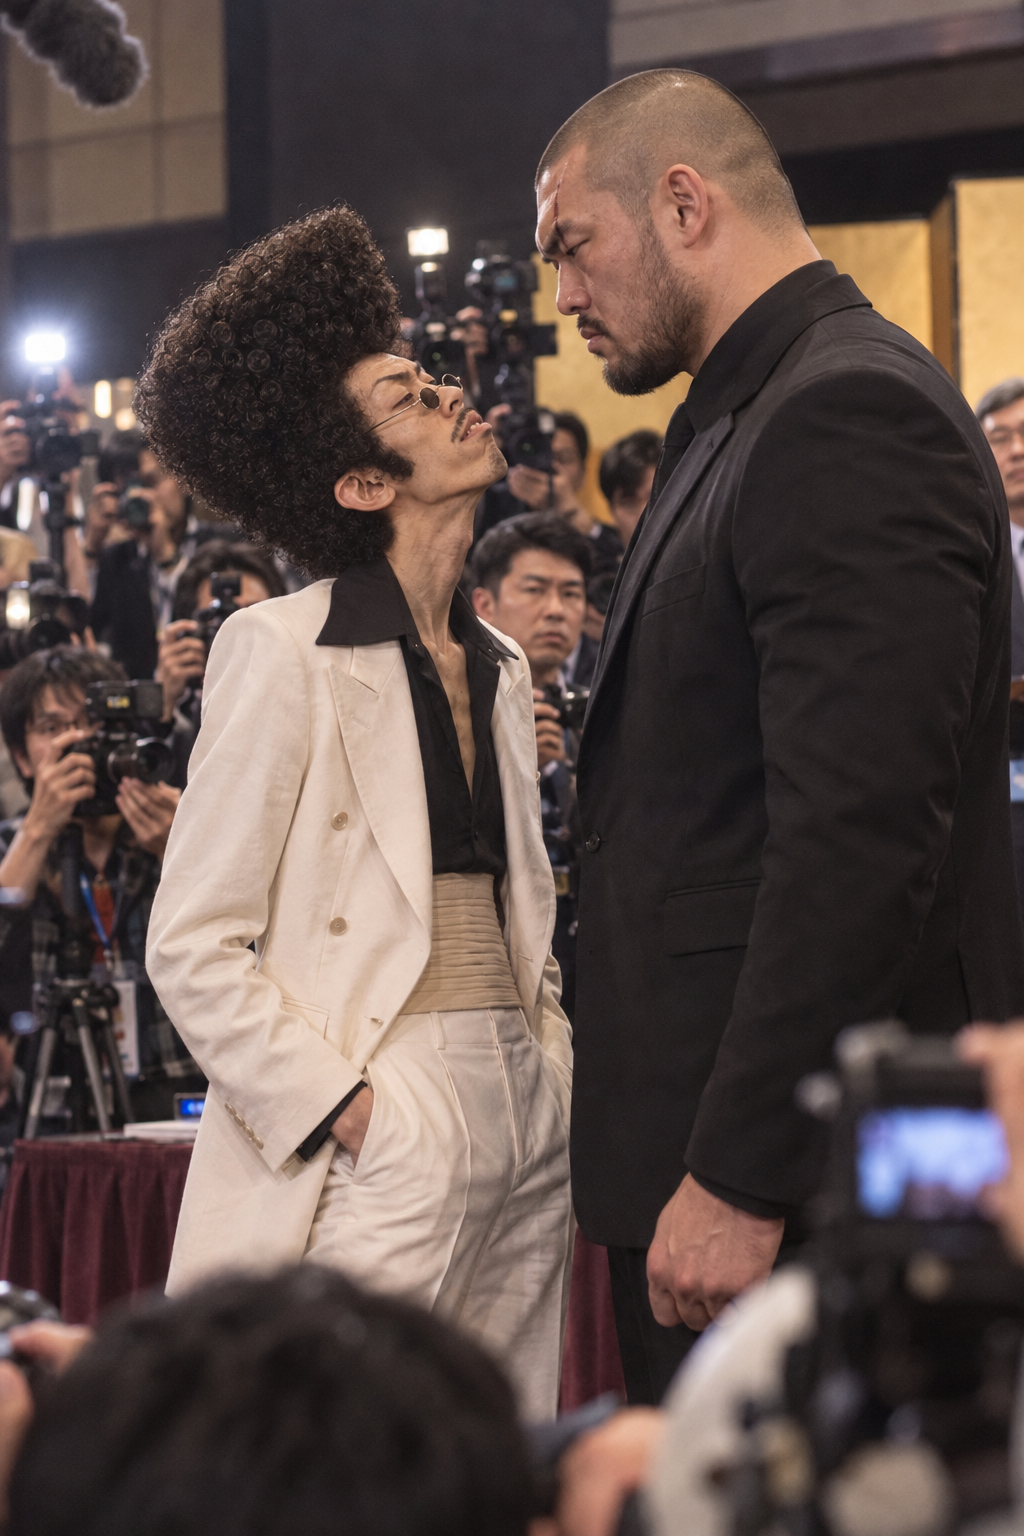
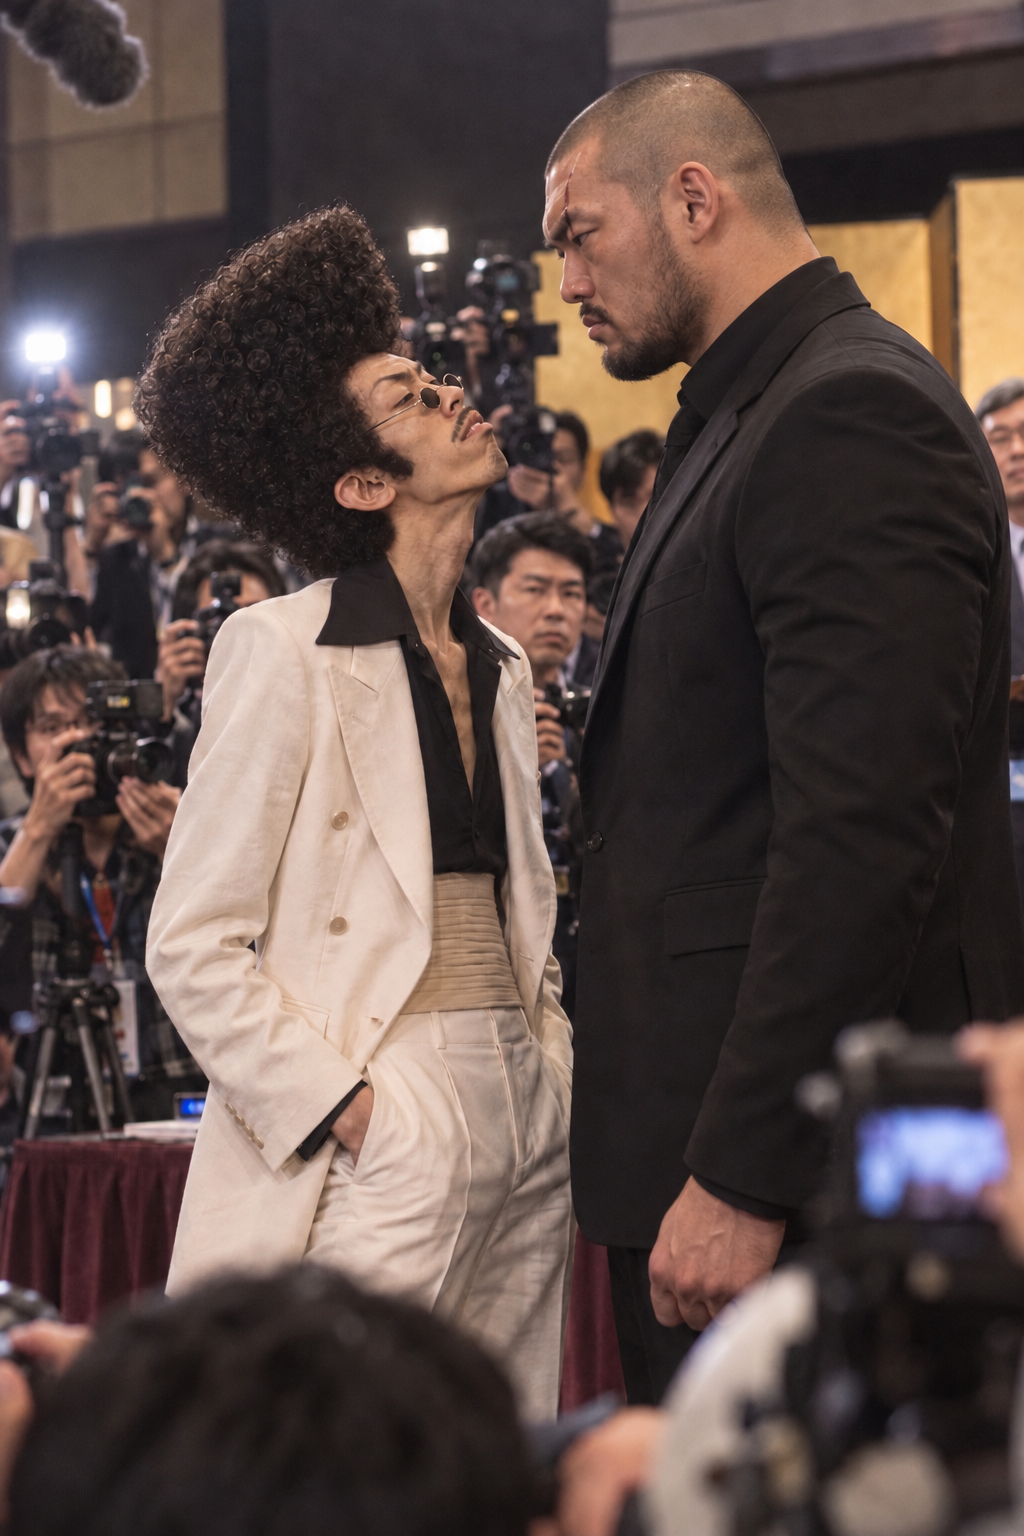
Replace 20-3 with Onizuka face v2
Claude-Session: https://claude.ai/code/session_01ACqrAH6aRrR2oFDk6UYPGT

diff --git a/prompts/ep19_20.md b/prompts/ep19_20.md
@@ -11,4 +11,4 @@
 
 ## 鬼塚の正式な顔（2026-10-27 ボス決定）
 - posts/ep20/20-1_onizuka.png を正式な顔にする。今後の鬼塚はこの画像を添付して作る
-- 20-3は顔が違うため作り直し候補
+- 20-3は作り直し済み（v2、眉の傷あり）。旧版は old/
